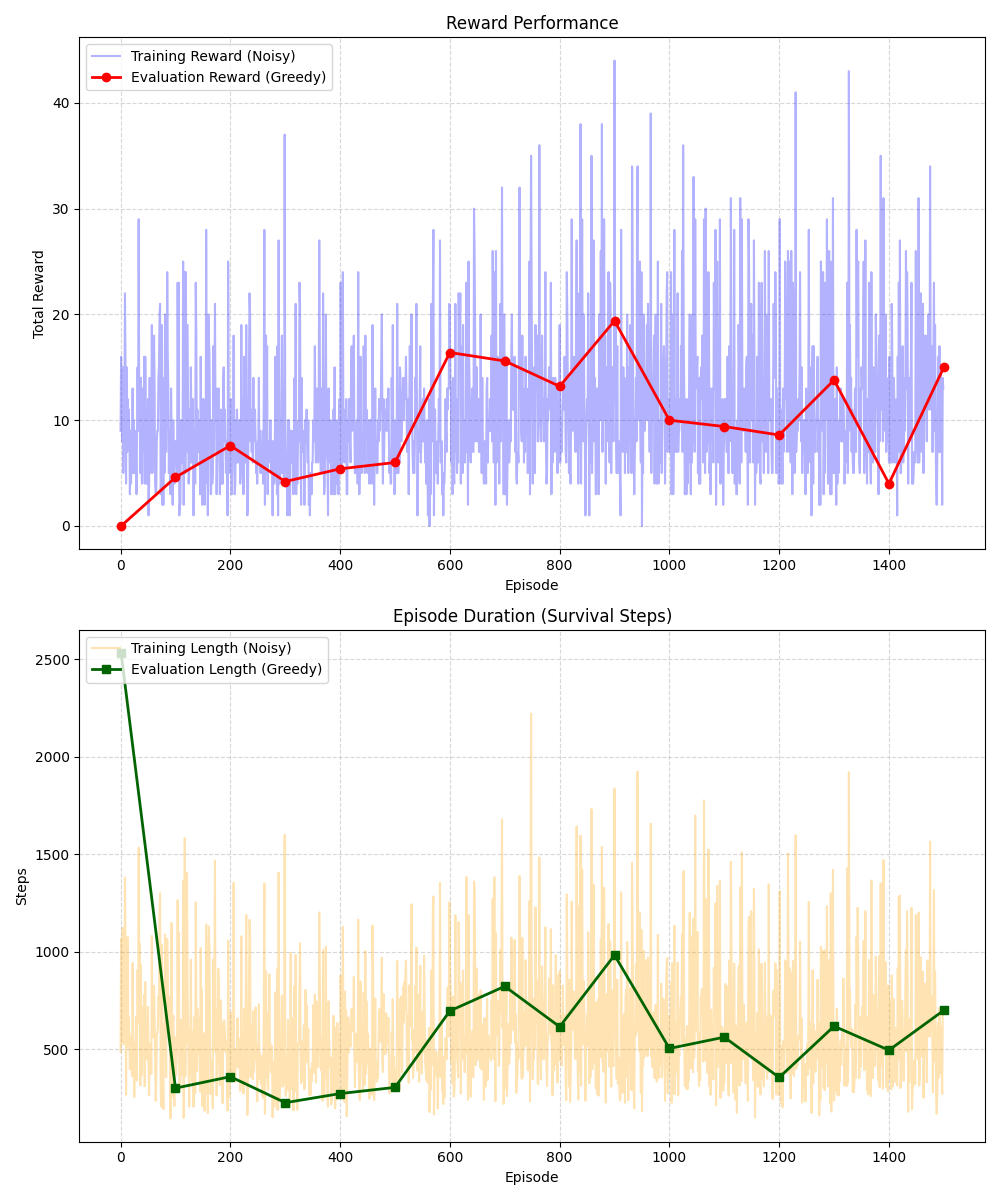
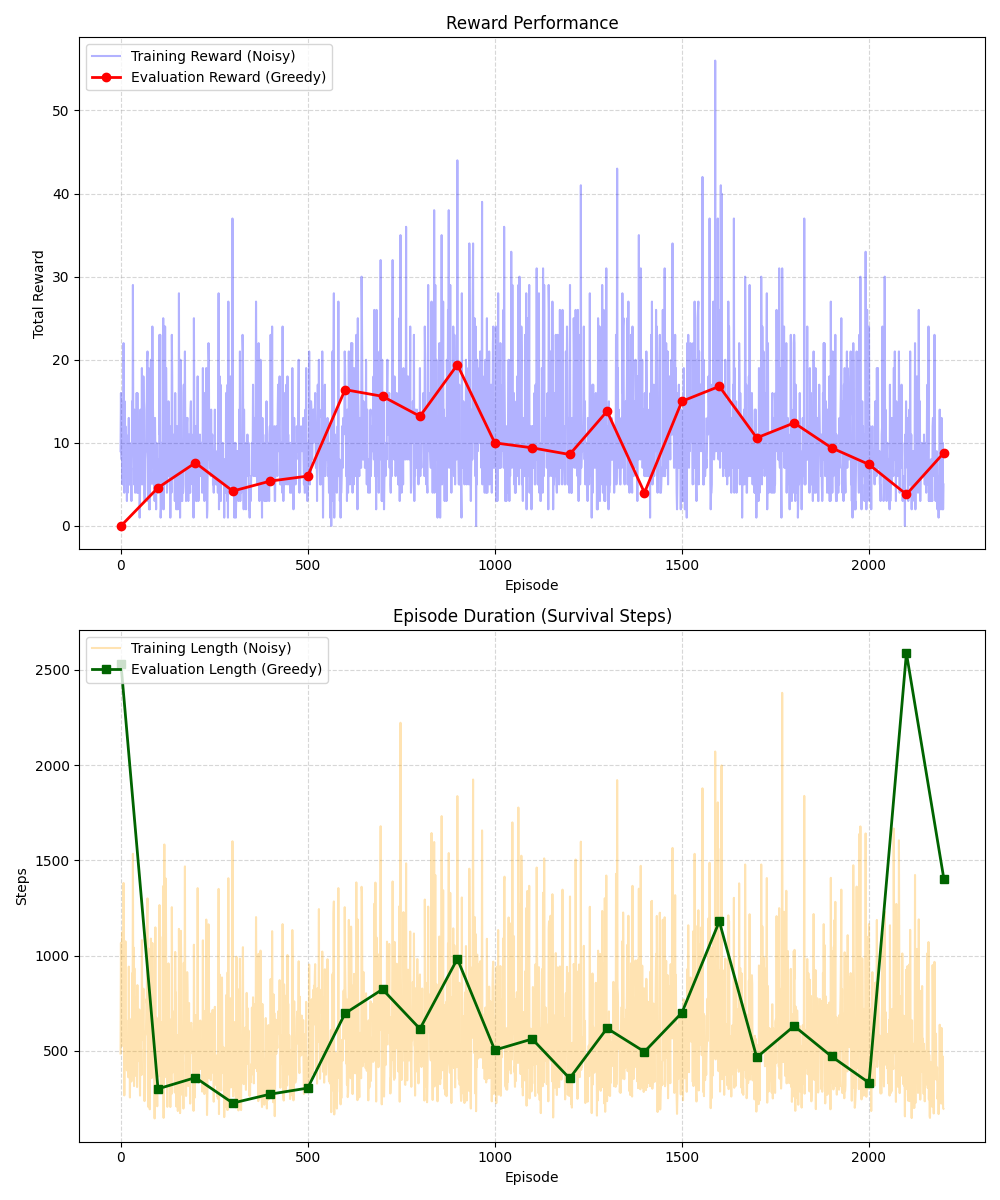
実験コードの追加とframeskip追加

diff --git a/src/play_wrapped.py b/src/play_wrapped.py
@@ -1,0 +1,204 @@
+import argparse
+import time
+
+import ale_py
+import gymnasium as gym
+import matplotlib.pyplot as plt
+import numpy as np
+
+from wrapper import ClipRewardWrapper, MaxPoolWrapper, FrameSkipMaxPoolWrapper
+
+
+def build_env(image_size=120, window_size=4, use_clip=True, use_maxpool=True):
+    gym.register_envs(ale_py)
+    env = gym.make("ALE/AirRaid-v5", render_mode=None, frameskip=1)
+    if use_clip:
+        env = ClipRewardWrapper(env)
+    env = FrameSkipMaxPoolWrapper(env, skip=4)
+    env = gym.wrappers.GrayscaleObservation(env, keep_dim=False)
+    env = gym.wrappers.ResizeObservation(env, (image_size, image_size))
+    env = gym.wrappers.FrameStackObservation(env, window_size)
+    return env
+
+
+def obs_to_array(obs):
+    arr = np.asarray(obs)
+    if arr.ndim == 2:
+        arr = arr[None, ...]
+    return arr
+
+
+def tile_stack(arr):
+    # arr: (C,H,W), display up to 4 frames in 2x2 grid
+    c, h, w = arr.shape
+    if c == 1:
+        return arr[0]
+    frames = [arr[min(i, c - 1)] for i in range(4)]
+    top = np.concatenate([frames[0], frames[1]], axis=1)
+    bottom = np.concatenate([frames[2], frames[3]], axis=1)
+    return np.concatenate([top, bottom], axis=0)
+
+
+def frame_for_display(obs, mode="latest"):
+    arr = obs_to_array(obs)
+    if mode == "tile":
+        return tile_stack(arr)
+    return arr[-1]
+
+
+def main():
+    parser = argparse.ArgumentParser(description="Play AirRaid while viewing wrapped (post-FrameStack) observations.")
+    parser.add_argument("--image-size", type=int, default=120)
+    parser.add_argument("--window-size", type=int, default=4)
+    parser.add_argument("--step-hz", type=float, default=15.0, help="Approximate env.step() rate.")
+    parser.add_argument("--no-clip", action="store_true")
+    parser.add_argument("--no-maxpool", action="store_true")
+    parser.add_argument("--view", choices=["latest", "tile"], default="latest")
+    args = parser.parse_args()
+
+    env = build_env(
+        image_size=args.image_size,
+        window_size=args.window_size,
+        use_clip=not args.no_clip,
+        use_maxpool=not args.no_maxpool,
+    )
+
+    action_meanings = None
+    if hasattr(env.unwrapped, "get_action_meanings"):
+        try:
+            action_meanings = env.unwrapped.get_action_meanings()
+        except Exception:
+            action_meanings = None
+    print("frameskip:", getattr(env.unwrapped, "_frameskip", getattr(env.unwrapped, "frameskip", None)))
+    if action_meanings is not None:
+        print("action meanings:")
+        for i, name in enumerate(action_meanings):
+            print(f"  {i}: {name}")
+
+    obs, info = env.reset()
+    state = {
+        "action": 0,
+        "held_actions": [],
+        "quit": False,
+        "paused": False,
+        "step_once": False,
+        "view": args.view,
+        "episode_reward": 0.0,
+        "episode_len": 0,
+        "episode_idx": 0,
+    }
+
+    fig, ax = plt.subplots(figsize=(6, 6))
+    ax.set_axis_off()
+    img = ax.imshow(frame_for_display(obs, state["view"]), cmap="gray", vmin=0, vmax=255, interpolation="nearest")
+
+    def update_title():
+        ax.set_title(
+            f"episode={state['episode_idx']} len={state['episode_len']} reward={state['episode_reward']:.1f} "
+            f"action={state['action']} view={state['view']} {'PAUSED' if state['paused'] else ''}"
+        )
+
+    def recompute_action():
+        state["action"] = state["held_actions"][-1] if state["held_actions"] else 0
+
+    def push_action(action_id):
+        if action_id in state["held_actions"]:
+            state["held_actions"] = [a for a in state["held_actions"] if a != action_id]
+        state["held_actions"].append(action_id)
+        recompute_action()
+
+    def release_action(action_id):
+        if action_id in state["held_actions"]:
+            state["held_actions"] = [a for a in state["held_actions"] if a != action_id]
+            recompute_action()
+
+    def on_key(event):
+        key = (event.key or "").lower()
+        if key is None:
+            return
+        if key in {str(i) for i in range(10)}:
+            push_action(int(key))
+            print(f"action (hold) -> {state['action']}")
+            return
+        if key == "q":
+            state["quit"] = True
+            plt.close(fig)
+            return
+        if key == "p":
+            state["paused"] = not state["paused"]
+            print("paused" if state["paused"] else "resumed")
+            return
+        if key == "n":
+            state["step_once"] = True
+            return
+        if key == "r":
+            state["episode_idx"] += 1
+            state["episode_reward"] = 0.0
+            state["episode_len"] = 0
+            obs_reset, _ = env.reset()
+            img.set_data(frame_for_display(obs_reset, state["view"]))
+            update_title()
+            fig.canvas.draw_idle()
+            return
+        if key == "m":
+            state["view"] = "tile" if state["view"] == "latest" else "latest"
+            print(f"view -> {state['view']}")
+            return
+        if key == " ":
+            push_action(0)
+            print("action (hold) -> 0")
+
+    def on_key_release(event):
+        key = (event.key or "").lower()
+        if key in {str(i) for i in range(10)}:
+            release_action(int(key))
+            return
+        if key == " ":
+            release_action(0)
+
+    fig.canvas.mpl_connect("key_press_event", on_key)
+    fig.canvas.mpl_connect("key_release_event", on_key_release)
+    print("keys: hold 0-9 action, hold space=noop, p pause, n step once, m toggle latest/tile, r reset, q quit")
+
+    step_dt = 1.0 / max(args.step_hz, 1e-3)
+    next_tick = time.perf_counter()
+
+    try:
+        while plt.fignum_exists(fig.number) and not state["quit"]:
+            now = time.perf_counter()
+            if state["paused"] and not state["step_once"]:
+                plt.pause(0.01)
+                continue
+            if now < next_tick and not state["step_once"]:
+                plt.pause(min(0.01, next_tick - now))
+                continue
+
+            obs, reward, terminated, truncated, info = env.step(state["action"])
+            state["episode_reward"] += float(reward)
+            state["episode_len"] += 1
+            img.set_data(frame_for_display(obs, state["view"]))
+            update_title()
+            fig.canvas.draw_idle()
+            plt.pause(0.001)
+
+            if terminated or truncated:
+                print(
+                    f"episode done: idx={state['episode_idx']} len={state['episode_len']} reward={state['episode_reward']:.1f}"
+                )
+                state["episode_idx"] += 1
+                state["episode_reward"] = 0.0
+                state["episode_len"] = 0
+                obs, info = env.reset()
+                img.set_data(frame_for_display(obs, state["view"]))
+                update_title()
+                fig.canvas.draw_idle()
+
+            state["step_once"] = False
+            next_tick = time.perf_counter() + step_dt
+    finally:
+        env.close()
+        plt.close("all")
+
+
+if __name__ == "__main__":
+    main()

diff --git a/src/wrapper.py b/src/wrapper.py
@@ -24,3 +24,36 @@ class MaxPoolWrapper(gym.ObservationWrapper):
             out = obs
         self.prev = np.array(obs,copy=True)
         return out
+    
+class FrameSkipMaxPoolWrapper(gym.Wrapper):
+    """
+    FrameSkip(with Max Pool for last 2 frames)
+    envのframeskipと併用しないこと。
+    """
+    def __init__(self, env, skip=4):
+        super().__init__(env)
+        self.skip = skip
+    
+    def reset(self, **kwargs):
+        return self.env.reset(**kwargs)
+    
+    def step(self, action):
+        obs_buf = []
+        total_reward = 0
+        for _ in range(self.skip):
+            obs, reward, terminated, truncated, info = self.env.step(action)
+            obs_buf.append(np.array(obs, copy=True))
+            obs_buf = obs_buf[-2:]
+            total_reward += reward
+            if terminated or truncated:
+                break
+        if len(obs_buf) == 1:
+            next_obs = obs_buf[0]
+        else:
+            next_obs = np.maximum(obs_buf[0], obs_buf[1])
+        return next_obs, total_reward, terminated, truncated, info
+    
+        
+        
+        
+        

diff --git a/src/dqn_max.py b/src/dqn_max.py
@@ -18,7 +18,7 @@ import ale_py
 from TensorReplayBuffer import TensorReplayBuffer
 from model import AirRaidModel_nature
 from agent import AirRaidAgent
-from wrapper import ClipRewardWrapper, MaxPoolWrapper
+from wrapper import ClipRewardWrapper, MaxPoolWrapper, FrameSkipMaxPoolWrapper
 
 torch.set_num_threads(1)
 
@@ -81,7 +81,7 @@ video_time_stamps = time_stamps // 10
 
 window_size = 4
 
-env = gym.make("ALE/AirRaid-v5", render_mode=None)
+env = gym.make("ALE/AirRaid-v5", render_mode=None, frameskip=1)
 #env = gym.wrappers.RecordVideo(
 #    env,
 #    video_folder=save_dir,
@@ -89,7 +89,7 @@ env = gym.make("ALE/AirRaid-v5", render_mode=None)
 #    episode_trigger=lambda x: x == 0 or (x + 1) % (episode_num // video_time_stamps) == 0,
 #)
 env = ClipRewardWrapper(env)
-env = MaxPoolWrapper(env)
+env = FrameSkipMaxPoolWrapper(env, skip=4)
 env = gym.wrappers.RecordEpisodeStatistics(env)
 env = gym.wrappers.GrayscaleObservation(env, keep_dim=False)
 env = gym.wrappers.ResizeObservation(env, (120, 120))

diff --git a/src/inspect_observation.py b/src/inspect_observation.py
@@ -10,6 +10,9 @@ from wrapper import ClipRewardWrapper, MaxPoolWrapper
 
 
 def build_env(window_size=4, image_size=120):
+    """
+    試したい環境
+    """
     gym.register_envs(ale_py)
     env = gym.make("ALE/AirRaid-v5", render_mode=None)
     env = ClipRewardWrapper(env)
@@ -22,6 +25,10 @@ def build_env(window_size=4, image_size=120):
 
 
 def check_and_get_latest(obs, window_size, image_size):
+    """
+    白黒かつスタックフレーム前提
+
+    """
     arr = np.asarray(obs)
     assert arr.ndim == 3, f"expected (C,H,W), got {arr.shape}"
     assert arr.shape == (window_size, image_size, image_size), (

diff --git a/records/experiments_memo_summary.md b/records/experiments_memo_summary.md
@@ -1,0 +1,34 @@
+
+### `実験段階(v2, 深いモデル)`（2026-02-22 07:43:0
+
+原文:
+
+> モデル深い上に安定手法あんまり採用しなかったら全然学習しなかった...
+
+### `v1.dqn再現`（2026-02-22 16:05:54）
+
+> dqn提案の再現
+> 入れてないもの
+> - 画像の縮小
+> - 点数の正規化
+
+### `v2(mac)`（2026-02-22 18:06:02）
+
+> 報酬クリップ入れた、バッチサイズデカくした
+> optimizerとそのハイパラ、学習の4フレスキップ、画像処理以外は同等に違いと思うが
+> 安定しない
+
+
+### `v2`（2026-02-22 21:05:47）
+
+> 学習率調整 lr を下げて、epsを上げた
+> 訓練安定化狙い
+
+### `v3`（2026-02-22 23:43:40）
+
+> warmup追加+モデルを論文通りに（2 -> 3層、MLP2倍に巨大化）+ 最初の[0, 30]のうちランダムな時間何もしない
+> 訓練安定化狙い
+
+### `v4`（2026-02-23 00:22:13）
+
+> モデルが見ている画像を受け、2フレームのmaxを行い、敵の点滅を回避
